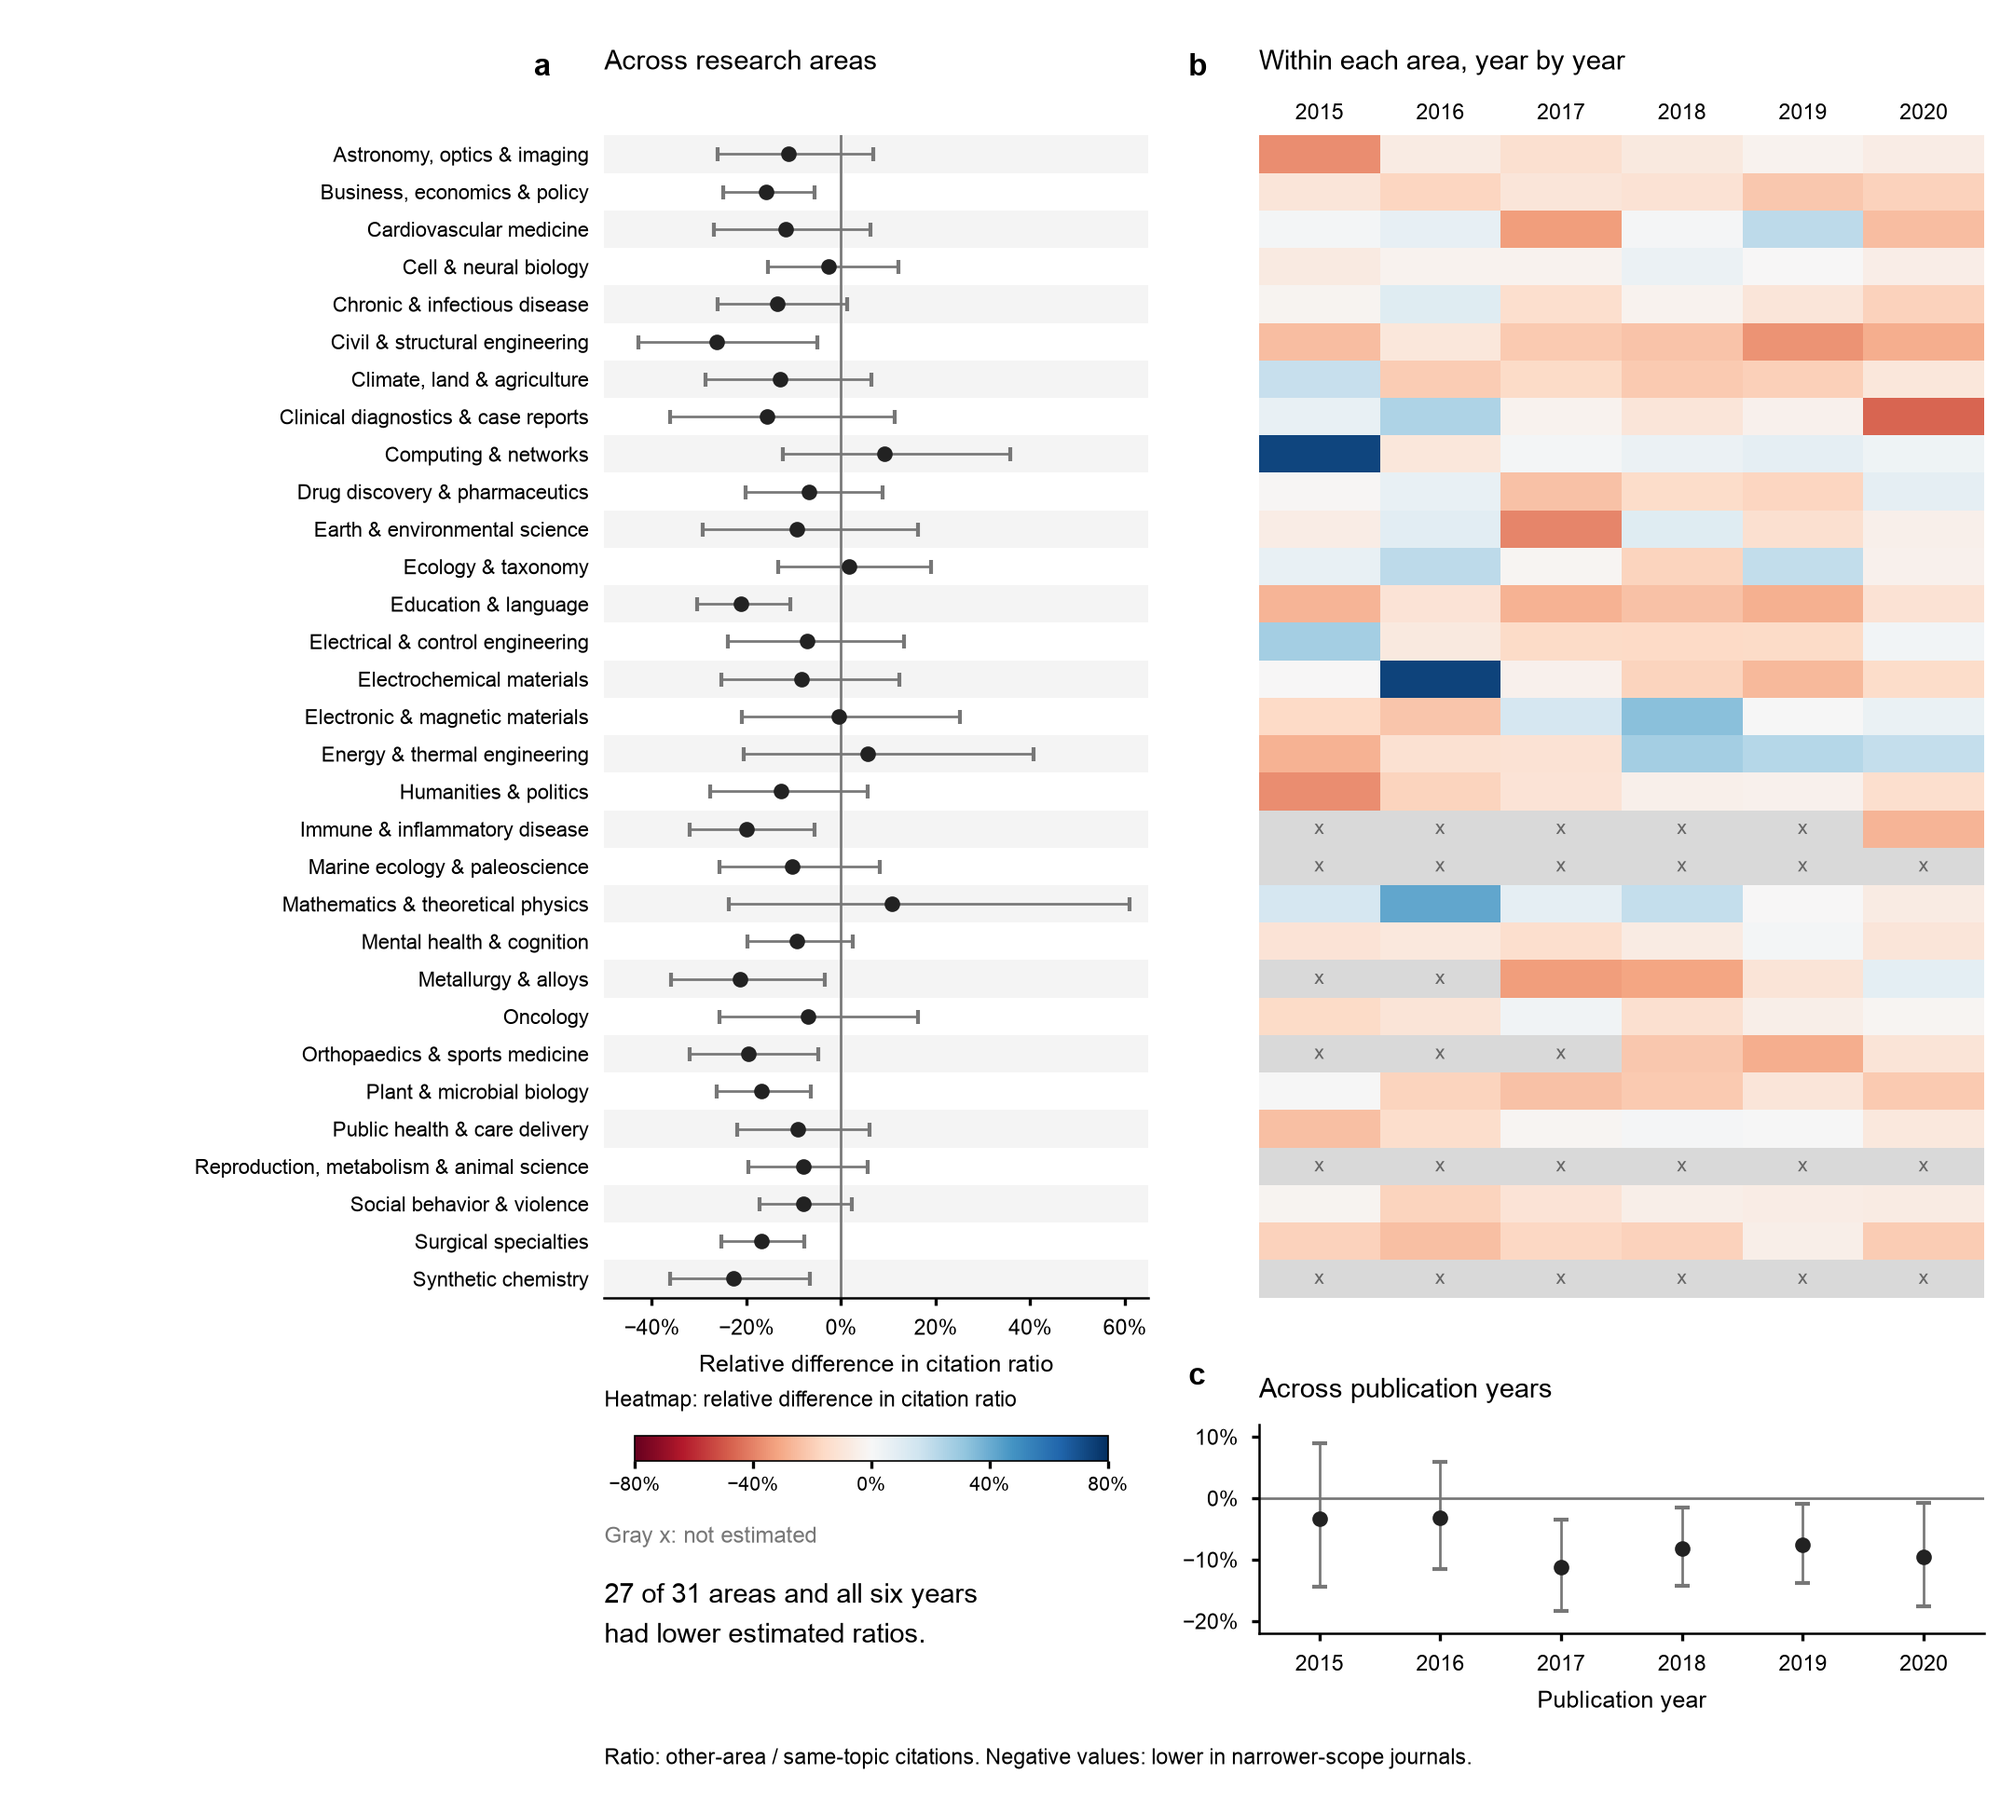
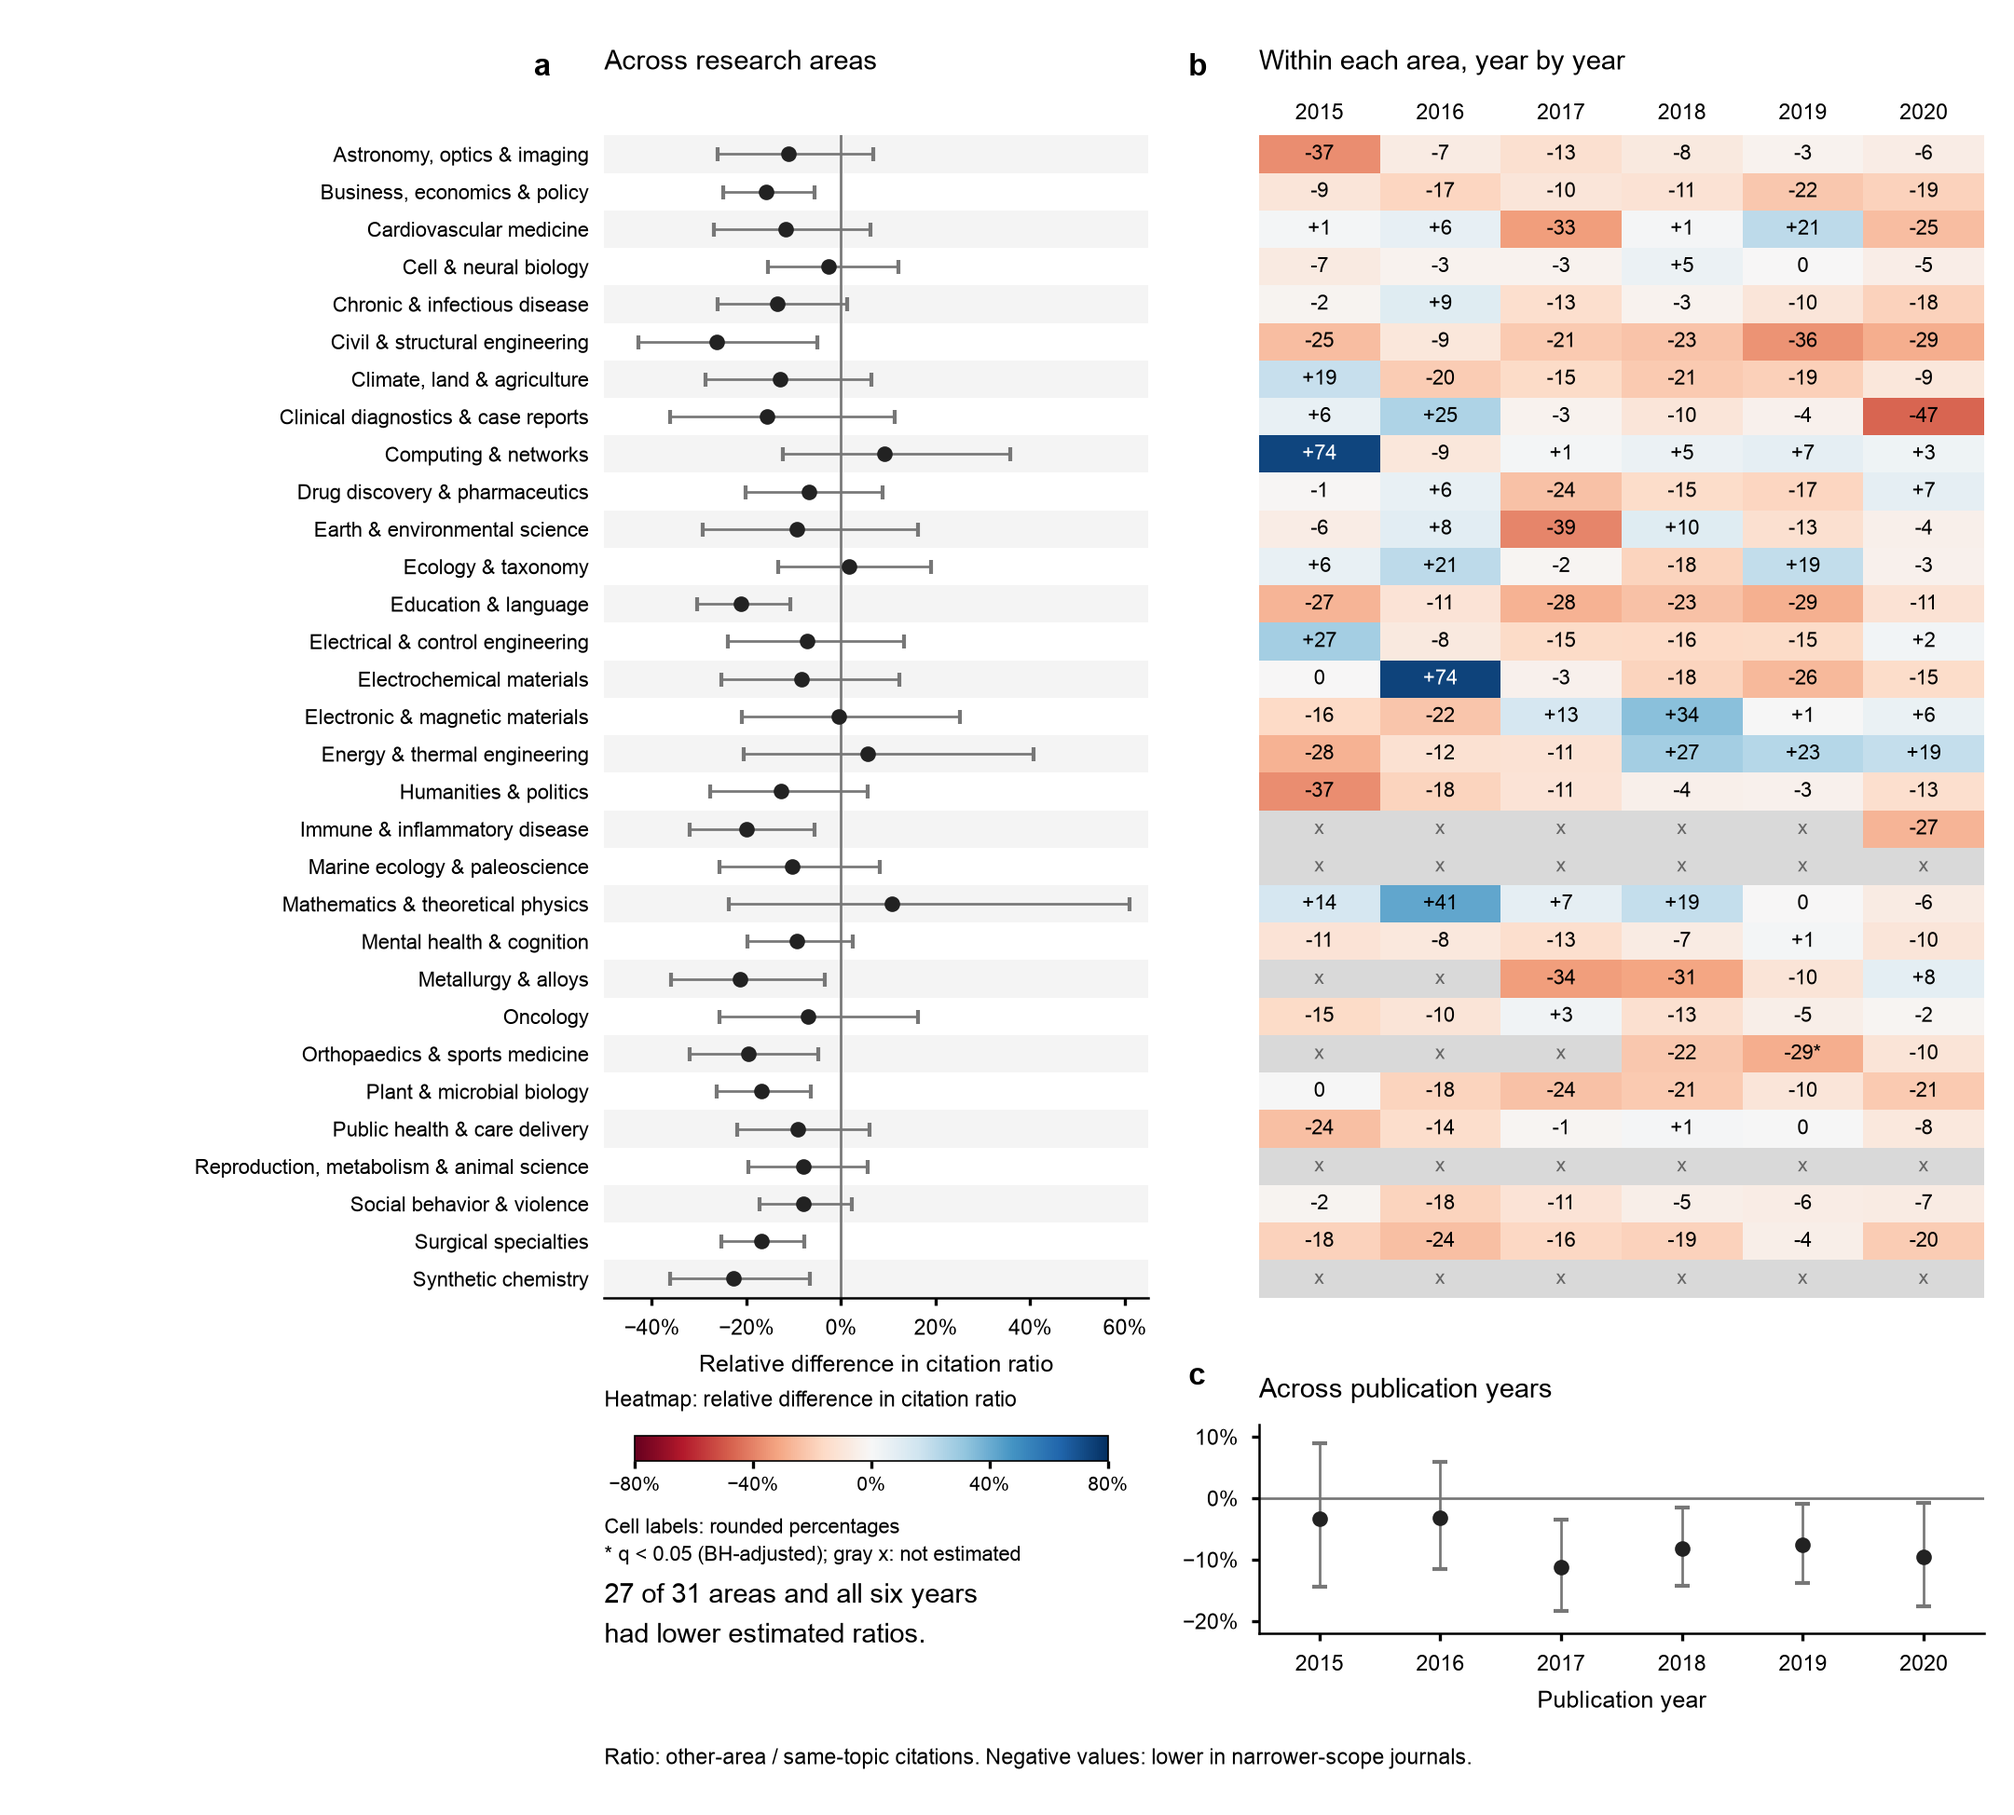
Annotate area-year contrasts with percentages and adjusted significance

Changed region(s): [[0.31, 0.8316, 0.4961, 0.8624]]

diff --git a/make_figure_area_year_summary.py b/make_figure_area_year_summary.py
@@ -73,6 +73,23 @@ cmap = plt.get_cmap("RdBu").copy()  # Red: lower ratio; blue: higher ratio.
 cmap.set_bad("#D9D9D9")
 im = ax_heat.imshow(np.ma.masked_invalid(matrix), cmap=cmap, vmin=-80, vmax=80,
                     aspect="auto", interpolation="nearest")
+marked = []
+for i, j in np.argwhere(np.isfinite(matrix)):
+    row = lookup[int(areas[i]["level"]), int(years[j]["level"])]
+    q = float(row["q_value_bh"])
+    assert np.isfinite(q) and 0 <= q <= 1, row
+    value = round(matrix[i, j])
+    label = f"{value:+d}" if value else "0"
+    if q < 0.05:
+        label += "*"
+        marked.append((row["display_label"], row["publication_year"]))
+    rgb = np.array(cmap(im.norm(matrix[i, j]))[:3])
+    linear = np.where(rgb <= 0.04045, rgb / 12.92, ((rgb + 0.055) / 1.055) ** 2.4)
+    luminance = linear @ [0.2126, 0.7152, 0.0722]
+    color = "black" if luminance > 0.179 else "white"
+    assert max((luminance + 0.05) / 0.05, 1.05 / (luminance + 0.05)) >= 4.5
+    ax_heat.text(j, i, label, ha="center", va="center", fontsize=5.4, color=color)
+assert marked == [("Orthopaedics & sports medicine", "2019")], marked
 for i, j in np.argwhere(np.isnan(matrix)):
     ax_heat.text(j, i, "x", ha="center", va="center", fontsize=5, color="#666666")
 ax_heat.set(xticks=np.arange(6), xticklabels=[r["level"] for r in years], xlim=(-0.5, 5.5))
@@ -88,13 +105,17 @@ bar = fig.colorbar(im, cax=cax, orientation="horizontal", ticks=[-80, -40, 0, 40
 bar.ax.tick_params(labelsize=5, length=2, pad=2)
 bar.outline.set_linewidth(0.4)
 fig.text(0.30, 0.225, "Heatmap: relative difference in citation ratio", fontsize=5.6)
-fig.text(0.30, 0.15, "Gray x: not estimated", fontsize=5.7, color=GREY)
+fig.text(0.30, 0.14, "Cell labels: rounded percentages\n* q < 0.05 (BH-adjusted); gray x: not estimated", fontsize=5.4, linespacing=1.4)
 fig.text(0.30, 0.095, "27 of 31 areas and all six years\nhad lower estimated ratios.", fontsize=7, linespacing=1.45)
 fig.text(0.265, 0.958, "a", fontsize=8, fontweight="bold")
 fig.text(0.59, 0.958, "b", fontsize=8, fontweight="bold")
 fig.text(0.59, 0.237, "c", fontsize=8, fontweight="bold")
 fig.text(0.30, 0.028, "Ratio: other-area / same-topic citations. Negative values: lower in narrower-scope journals.", fontsize=5.6)
 fig.canvas.draw()
+assert len(ax_heat.texts) == 186
+for label in ax_heat.texts:
+    box = label.get_window_extent(fig.canvas.get_renderer())
+    assert box.width < ax_heat.bbox.width / 6 and box.height < ax_heat.bbox.height / 31
 assert np.allclose(ax_area.transData.transform([(0, i) for i in range(31)])[:, 1],
                    ax_heat.transData.transform([(0, i) for i in range(31)])[:, 1]), "area rows are not aligned"
 assert np.allclose(ax_heat.transData.transform([(i, 0) for i in range(6)])[:, 0],
@@ -104,4 +125,4 @@ for suffix in ("pdf", "png"):
     fig.savefig(out, dpi=300 if suffix == "png" else None)
     assert out.stat().st_size > 10_000, out
     print(f"wrote {out.name}: {out.stat().st_size:,} bytes")
-print("validated aligned 31 areas (27 negative), 6 years (6 negative), 158 estimated cells (117 negative), 28 missing cells; n=3,827,491; saved estimates unchanged")
+print("validated aligned 31 areas (27 negative), 6 years (6 negative), 158 numeric labels (117 negative estimates), 1 existing BH marker, 28 missing cells; n=3,827,491; saved estimates unchanged")

diff --git a/REPRODUCTION.md b/REPRODUCTION.md
@@ -17,6 +17,8 @@ python make_supplementary_tables.py
 
 Figure 1 (study design) is drawn by hand and has no script. Filenames retain earlier numbering: `make_figure4_network.py` produces manuscript Figure 3; `make_figure_area_year_summary.py` produces Figure 4; and `make_figure3_area_year.py` produces Supplementary Figure S4. Figure 3a displays relative percentage differences in citation shares; the source table retains log2 ratios and intervals. Figure 4 aligns the 31-area forest with a 31-by-6 heatmap and a year summary below. All three panels use percentage changes calculated from stored log-ratio estimates and intervals. Heatmap color encodes the estimate without significance-dependent fading; 28 non-estimable cells are gray. Area and year estimates pool papers, not heatmap cells. The precision funnel remains in Supplementary Figure S4. No model is re-estimated.
 
+Heatmap labels are percentage changes rounded to whole numbers. The asterisk marks an existing Benjamini--Hochberg-adjusted q value below 0.05; the correction covers all 164 estimable area-year cells, including six Mixed records cells omitted from the display. The marked cell is Orthopaedics & sports medicine in 2019 (q = 0.0111). No p or q values are recomputed for the figure.
+
 ## Source data
 
 | File | Used in |
